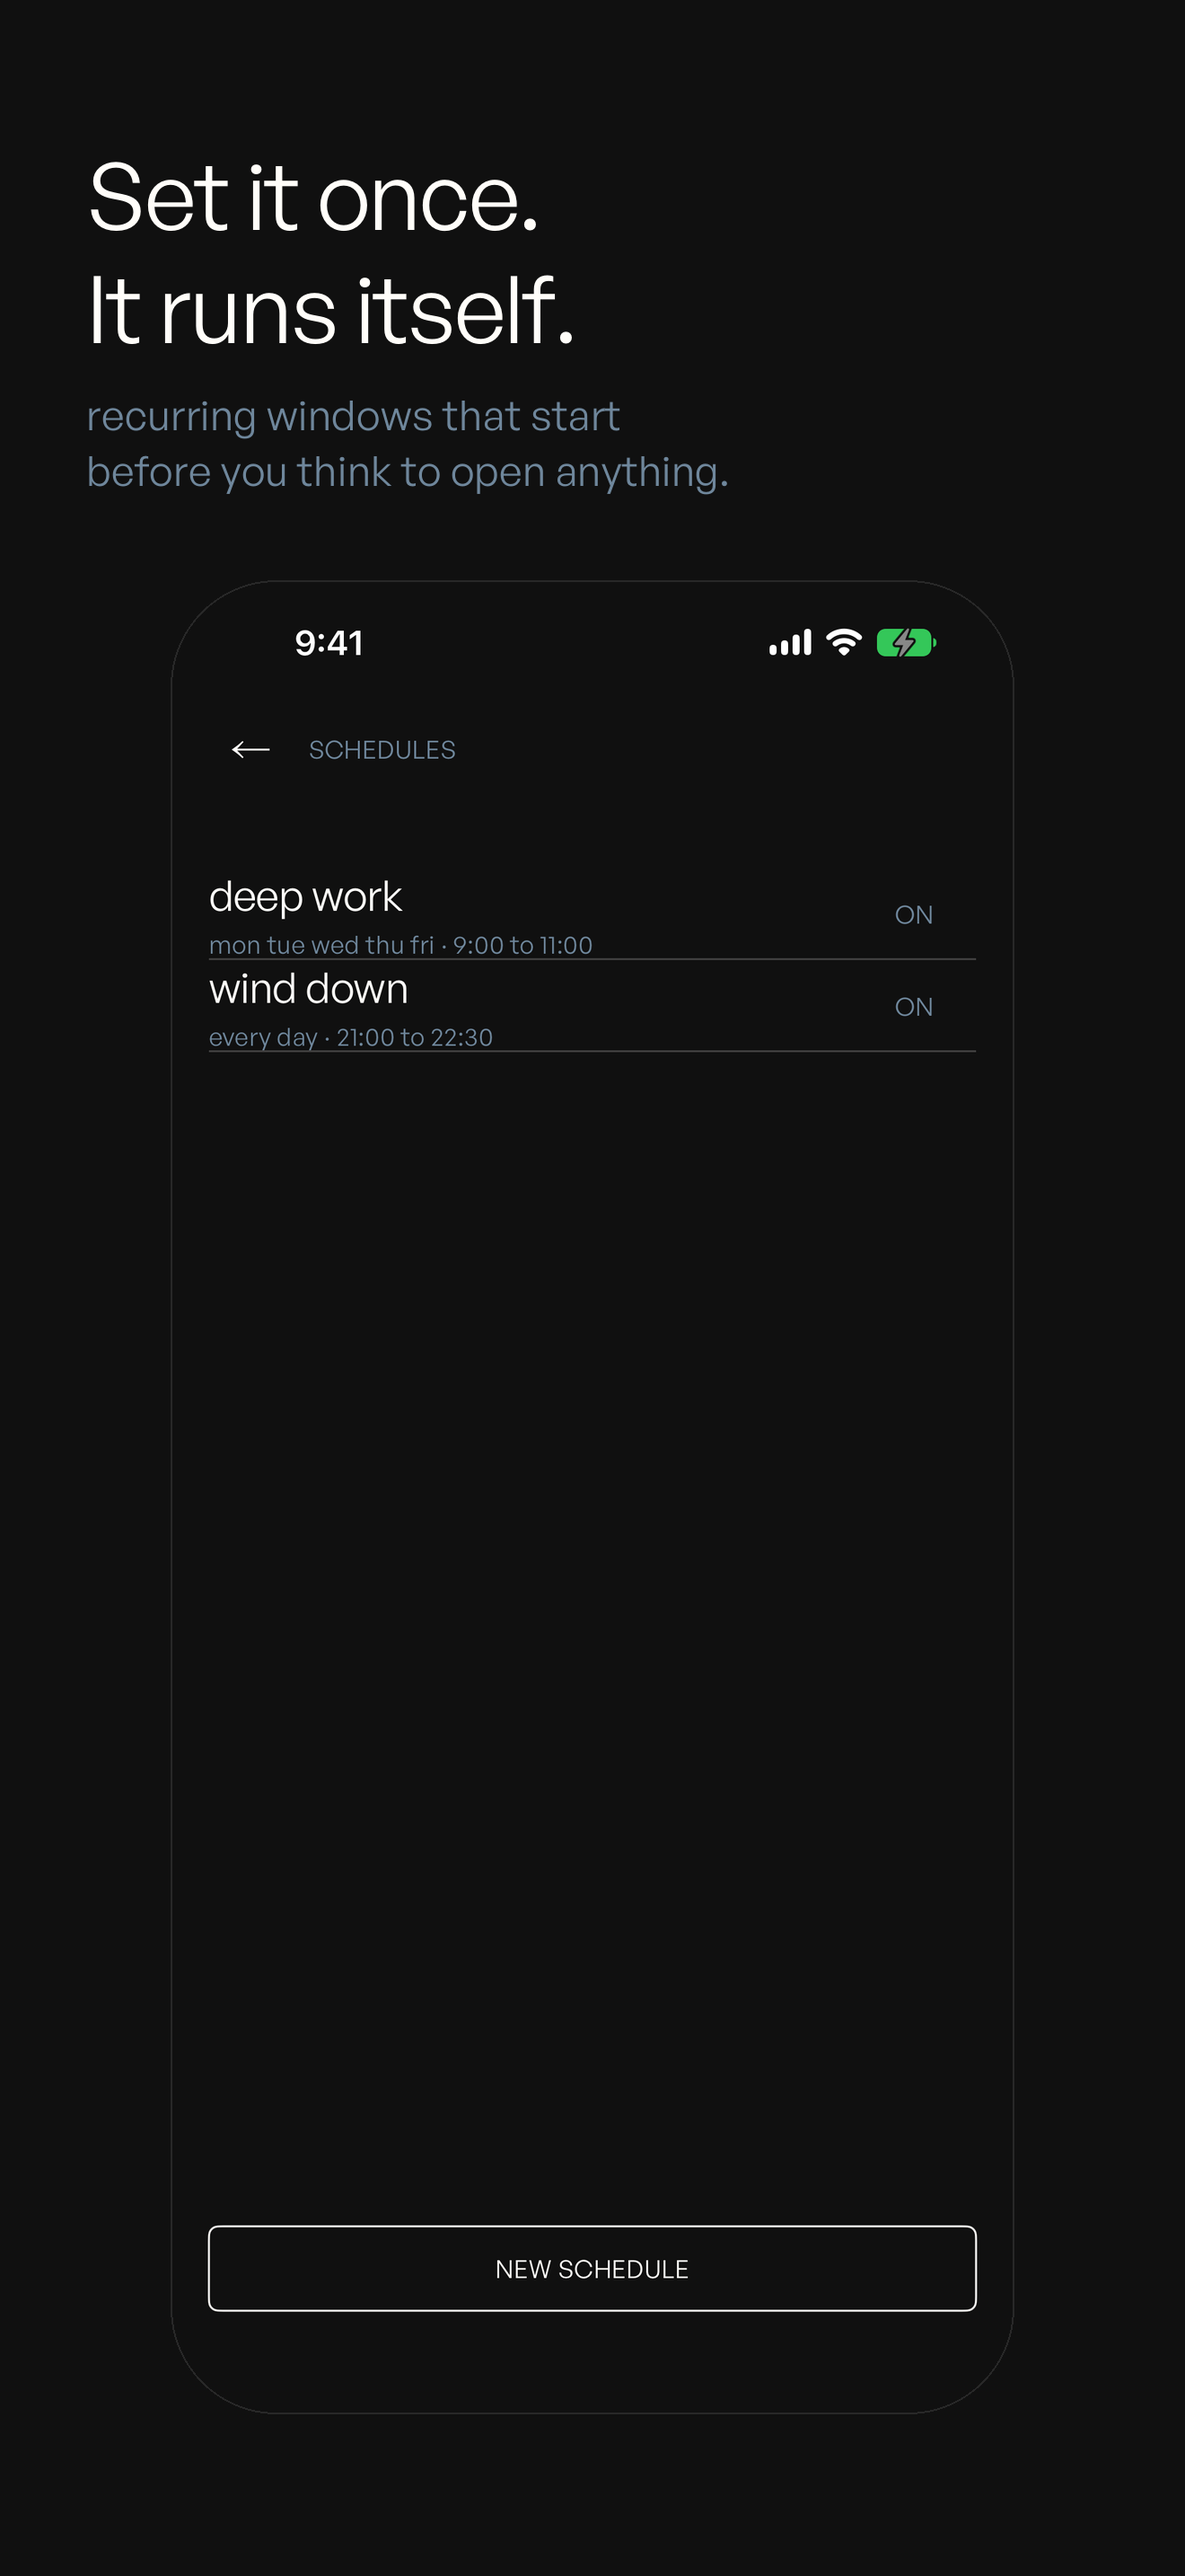
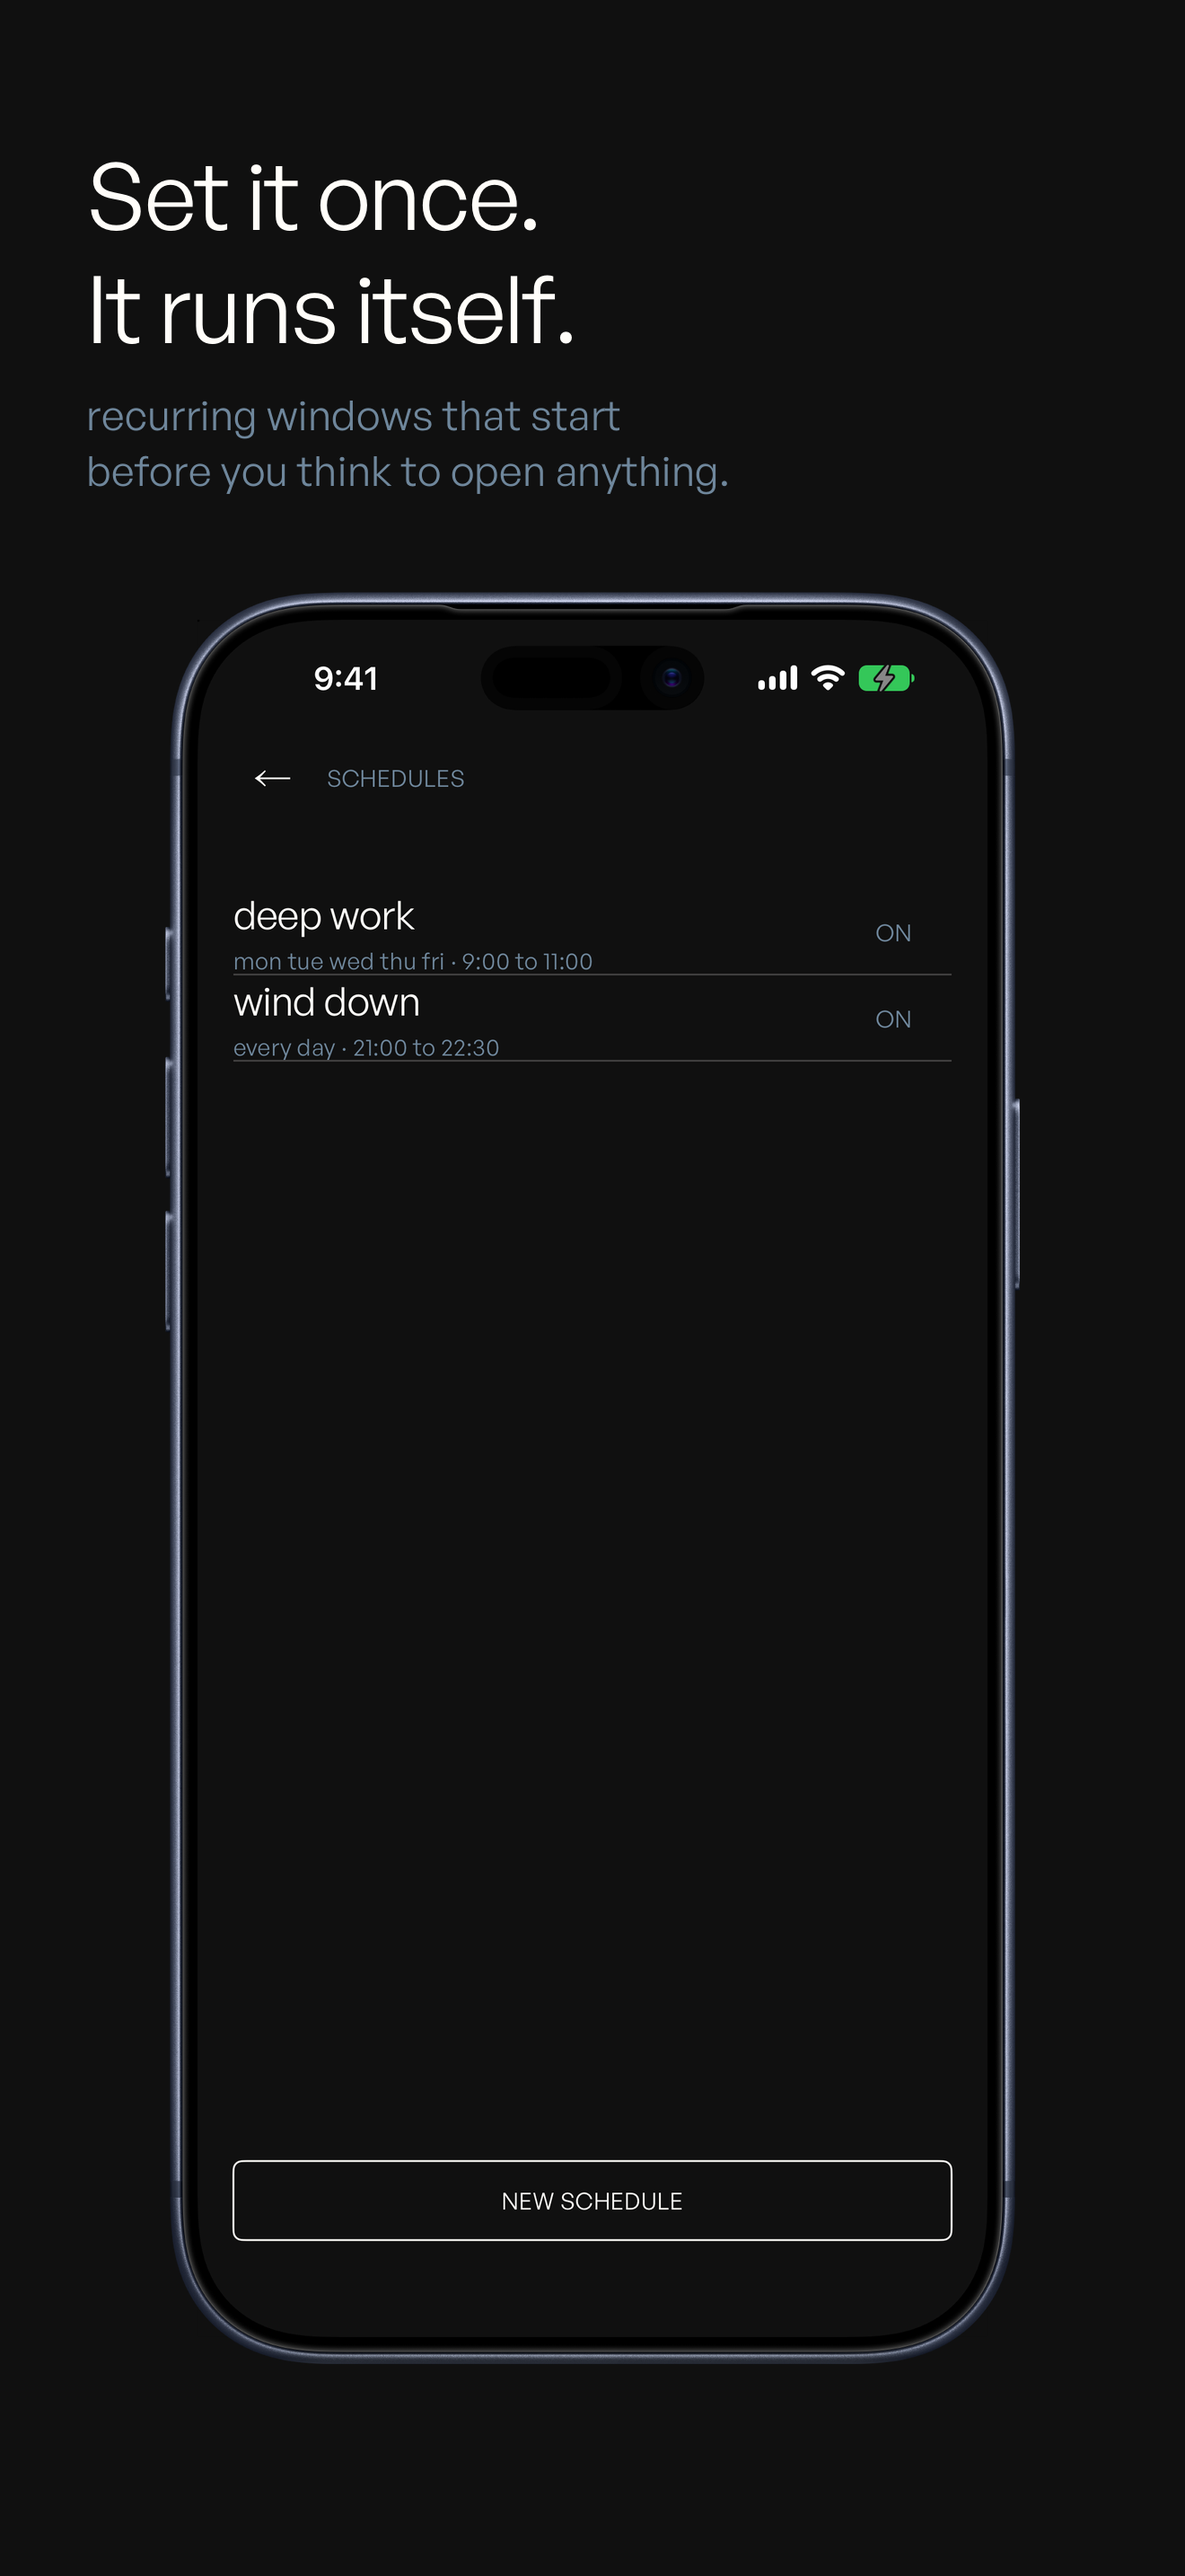
appstore: five frames re-shot at 1.17, framed in the device
home leads with the benefit (nothing to check. only things to do.),
focus shows strict mode holding (ends at, no exit), and the widget
frame is the real springboard placement. raws from the ios 27 pro max
simulator at 9:41.

diff --git a/scripts/make_appstore_shots.py b/scripts/make_appstore_shots.py
@@ -44,7 +44,7 @@ FRAMES = [
      "Your home screen,\nminus everything else.",
      "one widget. the apps you meant.\nnothing you didn’t."),
     ("shot-home.png",
-     "A clock, a goal,\nand a short list.",
+     "Nothing to check.\nOnly things to do.",
      "no badges. no feed.\nno reason to stay."),
     ("shot-focus.png",
      "Focus that\nactually holds.",
